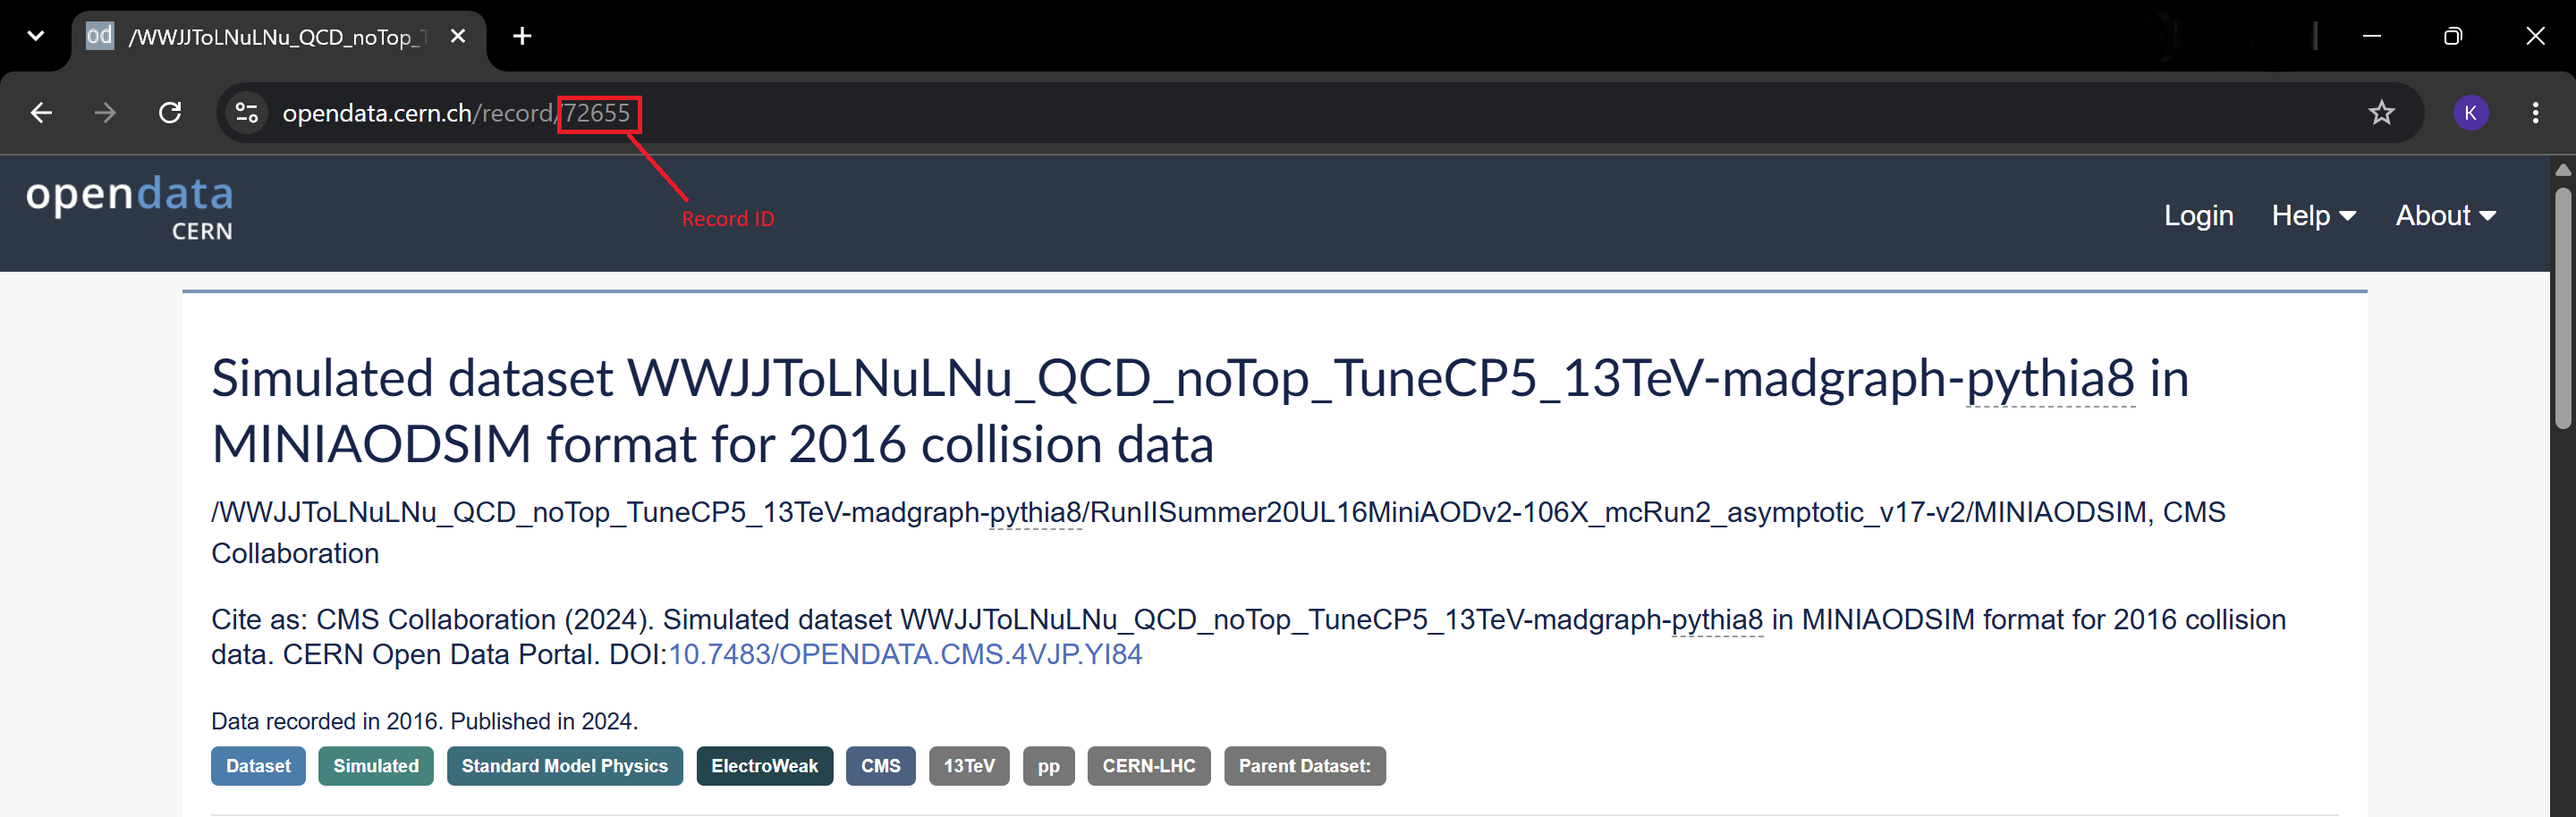
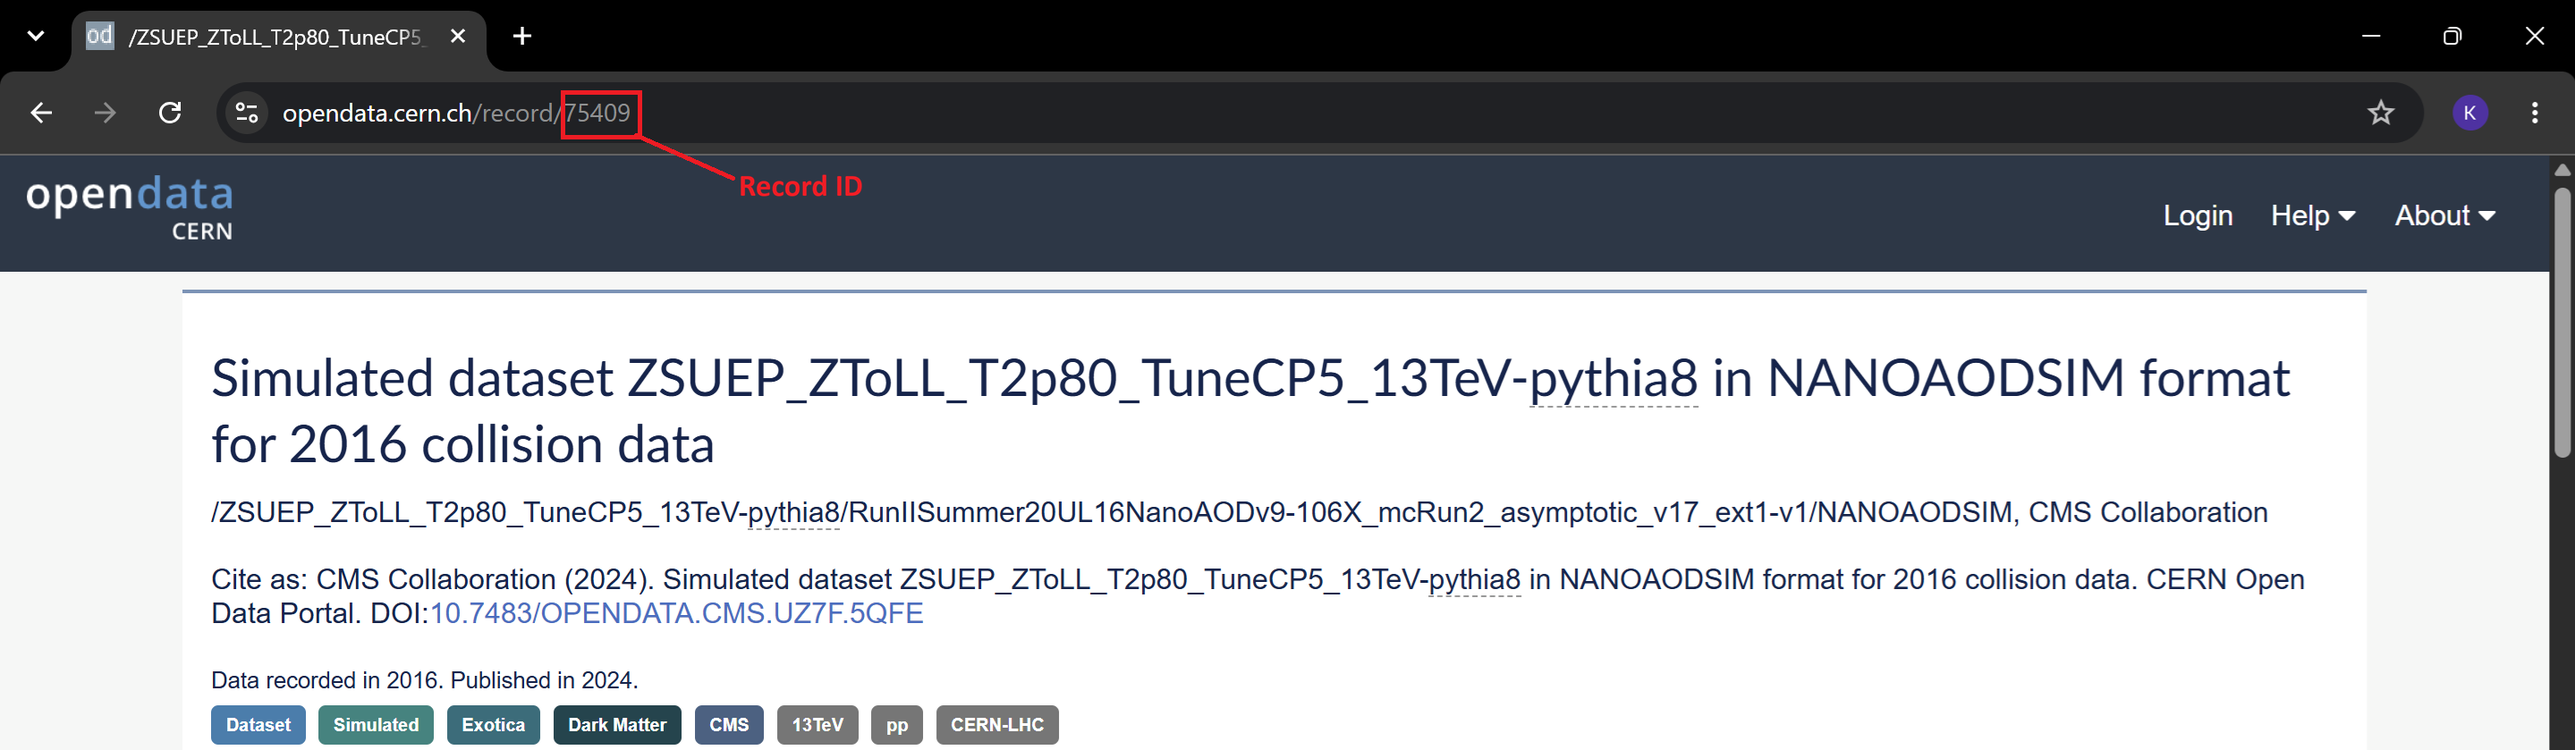
changed example record. added Test Run section

diff --git a/content/episodes/02-first-run/index.md b/content/episodes/02-first-run/index.md
@@ -3,11 +3,10 @@ title = "First Run"
 weight = 20
 teaching = 15
 exercises = 10
-questions = ["How to get the workflow locally?", "What are the steps to running the workflow?"]
-objectives = ["Learn to run the workflow and simulate the dataset you need."]
-keypoints = ["Where and how to set the parameters to fit your use case."]
+questions = ["How to get the workflow locally?", "What parameters should be changed?", "How to run the workflow?"]
+objectives = ["Understand the needed parameters.", "Run and monitor the workflow."]
+keypoints = ["Find the right number of jobs / events per job balance.", "Monitor the running workflow."]
 +++
-
 
 ## Get the Workflow
 
@@ -55,7 +54,7 @@ You'll need to provide the number of total events you want to simulate, and the 
 
 $$\dfrac{\text{\# of events}}{\text{\# of events per job}} = \text{\# of jobs}$$
 
-With a higher number of events per job, there will be less total jobs but each job will take longer to run and the maximum number of events per job is 1600 to avoid artificial duplication during the simulation. 
+With a higher number of events per job, there will be less total jobs but each job will take longer to run and the maximum number of events per job is 1600 as it's the number of events in a [pileup](https://opendata.cern.ch/docs/cms-guide-pileup-simulation) file and each job takes 1 pileup file.
 
 If you provide a fewer number of events per job, each job will finish more quickly, however you'll have more total jobs and that'll be limited by how many jobs the REANA cluster can run at a time.
 
@@ -78,3 +77,38 @@ For example assuming the user "John Doe" wants to store the results in his proje
   # Provide the eos_outdir you want the results to be stored in
   eos_dir: "/eos/user/j/johndoe/my_project"
 ```
+
+## Test Run
+
+To have a test run to verify that everything is set up correctly, we'll do a simple workflow run with only 100 events and 25 event per job. This run should take ~20 minutes.
+
+The `parameters` section of your `reana.yaml` file should look something like this
+```
+parameters:
+  # Provide the record ID of the dataset you want to simulate
+  record_id: 75409 
+  # Provide the number of events you want the workflow to simulate
+  events: 100
+  # Provide the number events you want assigned to each job
+  eventsPerJob: 25
+  # Provide the eos_dir you want the results to be stored in
+  eos_outdir: "/eos/user/k/kabuquti/test_run"
+```
+
+**The eos_outdir field should point to your own EOS space**.
+
+For the run to work, make sure you are in the root of the `FullSimulationReanaWorkflow` directory as well as having having your `reana-client` environment activated as mentioned in the [Setup]({{< relref "/learners/setup.md" >}}). 
+
+To create our first test worfklow, run
+```
+reana-client run -w workflow_name
+```
+
+You can follow the progress of workflow on [reana.cern.ch](reana.cern.ch) or you can check it via the termnial using
+```
+reana-client status -w workflow_name
+```
+
+The intermediary root files of the steps are also stored in your EOS directory until the subsequent steps uses them succesfully, checking your EOS directory before the workflow is done will show you the files currently in use.
+
+After the workflow runs successfully, you'll find the final root files and metrics (which will be discussed later) of the workflow in your EOS directory.
